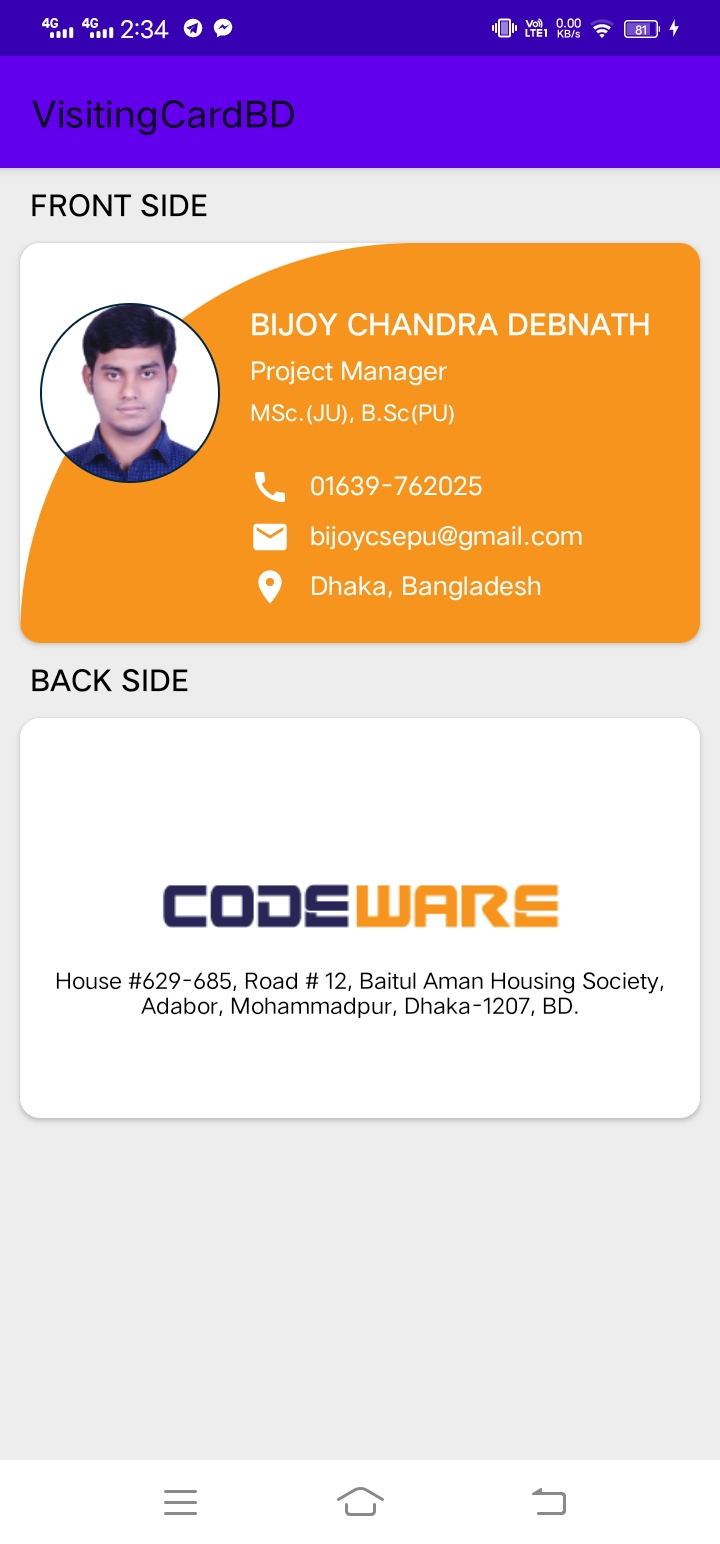
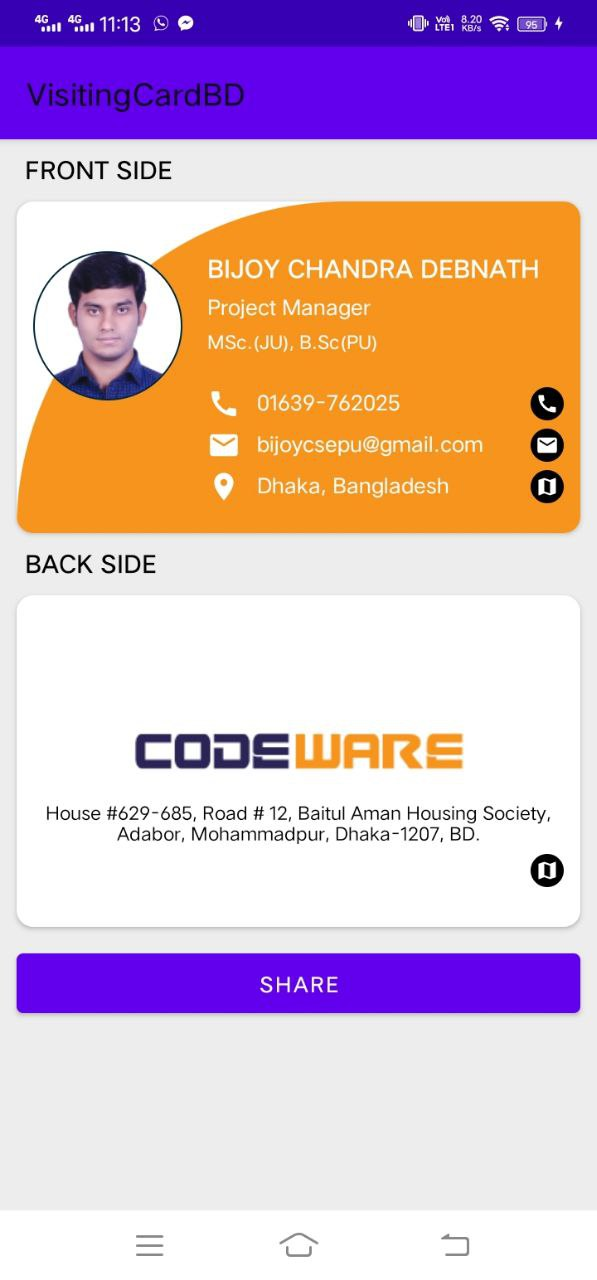
Readme Updated

diff --git a/README.md b/README.md
@@ -1,9 +1,14 @@
-# Home Work: 01
-# Title: Visiting card design with Photo 
+# Home Work: 04
+# Title: Visiting card design with Action using Intent 
 # Platform: Android 
 # IDE: Android Studio
 # Language: Java,XML
-# This design is created by using card view and constraint layout in XML. 
+# This design is created by using card view and constraint layout, Linear Layout in XML. 
+# An In MainActivity the Intent is using for Call, email, Map and data share
 
 # -------Output-------
 ![alt text](https://github.com/bijoy-cwl/visiting_card/blob/main/screenshots/s1.jpg)
+![alt text](https://github.com/bijoy-cwl/visiting_card/blob/main/screenshots/s2.jpg)
+![alt text](https://github.com/bijoy-cwl/visiting_card/blob/main/screenshots/s3.jpg)
+![alt text](https://github.com/bijoy-cwl/visiting_card/blob/main/screenshots/s4.jpg)
+![alt text](https://github.com/bijoy-cwl/visiting_card/blob/main/screenshots/s5.jpg)
